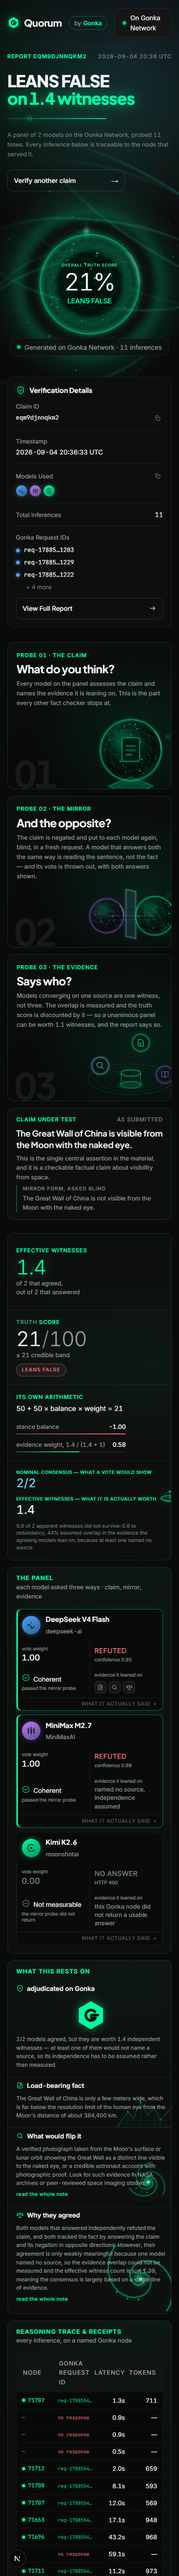
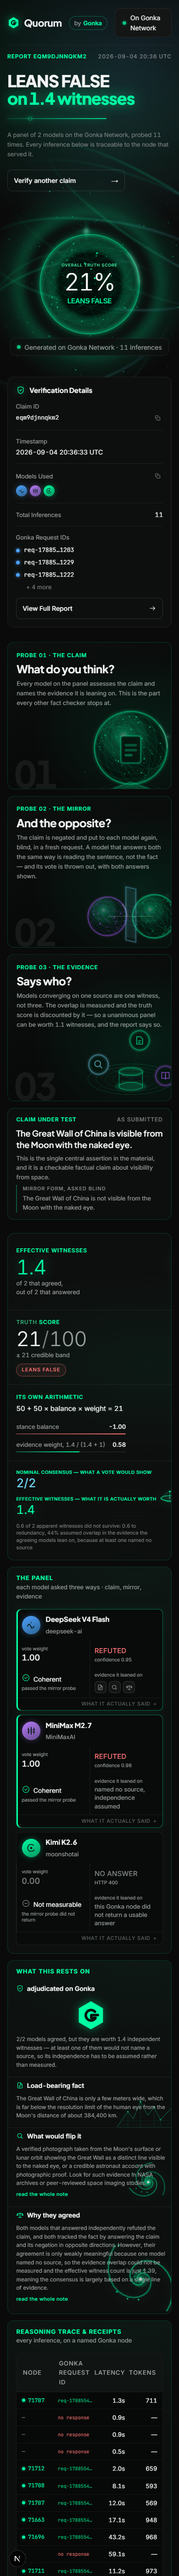
fix(design): the effective witness count was rendering white, not green
A design critic sampling pixels rather than reading the stylesheet found that
this project's central claim was not on screen. In the metrics strip's fourth
cell — the one built to put the nominal consensus and the effective witness
count side by side — 2/2 rendered blue and 1.4 rendered plain near-white, so the
comparison read as "one number is flagged" instead of as two colours carrying a
distinction.

The cause was rule order. .metricValueSodium sat at line 843 and .metricSmall at
881; same specificity, later rule wins, so .metricSmall's own colour took it.
.metricSmallSteel happens to sit after .metricSmall, which is why the blue one
looked correct and hid the bug. There is now a .metricSmallSodium modifier
declared after the base rule, and a comment on both saying why the order is
load-bearing.

Verified by sampling the rendered PNG: 2/2 is rgb(114,220,255), 1.4 is
rgb(0,255,163). VISUAL_QA.md previously asserted the opposite and has been
corrected — a colour claim about a CSS-modules class is not evidence.

The same review found the probe spheres were still only ~43% of their card
against the reference's ~68%, and were reusing the hero orb's deliberately dark
interior at a smaller size. They now carry a hot core falling off to the shell:
the hero orb is dark glass because it is a body being measured, and a probe
sphere is the probe firing, so they should not look alike. Radii and the
document glyph and pedestal grew to match, and the scene box was re-anchored
[…]

diff --git a/components/Scenes.tsx b/components/Scenes.tsx
@@ -22,10 +22,17 @@ function Defs({ id }: { id: string }) {
         <stop offset="62%" stopColor={GREEN} stopOpacity="0.08" />
         <stop offset="100%" stopColor="#000" stopOpacity="0.4" />
       </radialGradient>
-      <radialGradient id={`${id}-body`} cx="38%" cy="34%">
-        <stop offset="0%" stopColor={GREEN} stopOpacity="0.2" />
-        <stop offset="45%" stopColor="#00251a" stopOpacity="0.62" />
-        <stop offset="100%" stopColor="#000" stopOpacity="0.72" />
+      {/* A LIT interior, deliberately unlike the hero orb's.
+          The hero orb is dark glass with a bright rim because it is a body being
+          measured. A probe-card sphere is the probe itself firing, so it carries
+          a hot core falling off to the shell — reusing the hero's dark treatment
+          here just made a small, dim copy of the hero. */}
+      <radialGradient id={`${id}-body`} cx="40%" cy="34%">
+        <stop offset="0%" stopColor="#eafff6" stopOpacity="0.55" />
+        <stop offset="14%" stopColor={GREEN} stopOpacity="0.42" />
+        <stop offset="38%" stopColor={GREEN} stopOpacity="0.2" />
+        <stop offset="68%" stopColor="#00301f" stopOpacity="0.52" />
+        <stop offset="100%" stopColor="#00120b" stopOpacity="0.66" />
       </radialGradient>
       <filter id={`${id}-glow`} x="-60%" y="-60%" width="220%" height="220%">
         <feGaussianBlur stdDeviation="3" />
@@ -64,9 +71,9 @@ function surfaceLights(seed: number, count: number, radius: number) {
   });
 }
 
-const CLAIM_LIGHTS = surfaceLights(9101, 54, 104);
-const MIRROR_LIGHTS_A = surfaceLights(3311, 24, 56);
-const MIRROR_LIGHTS_B = surfaceLights(7717, 28, 64);
+const CLAIM_LIGHTS = surfaceLights(9101, 62, 124);
+const MIRROR_LIGHTS_A = surfaceLights(3311, 28, 68);
+const MIRROR_LIGHTS_B = surfaceLights(7717, 32, 78);
 
 /**
  * The volumetric sphere the reference's probe cards are built around.
@@ -217,23 +224,23 @@ export function ClaimScene() {
     <svg viewBox="-150 -150 300 300" className={s.scene} aria-hidden="true" focusable="false">
       <Defs id={id} />
       <Rings id={id} />
-      <g transform="translate(0 -6)">
-        <Sphere id={id} r={104} hue={GREEN} lights={CLAIM_LIGHTS} meridians={11} />
+      <g transform="translate(0 -14)">
+        <Sphere id={id} r={124} hue={GREEN} lights={CLAIM_LIGHTS} meridians={12} />
       </g>
 
       {/* the document being read, held inside the sphere */}
       <g transform="translate(0 -8)">
-        <rect x="-30" y="-40" width="60" height="80" rx="7" fill="#04150e" stroke={GREEN} strokeWidth="1.6" />
-        <rect x="-30" y="-40" width="60" height="80" rx="7" fill="none" stroke={GREEN} strokeWidth="6" opacity="0.24" filter={`url(#${id}-glow)`} />
+        <rect x="-34" y="-46" width="68" height="92" rx="8" fill="#04150e" stroke={GREEN} strokeWidth="1.6" />
+        <rect x="-34" y="-46" width="68" height="92" rx="8" fill="none" stroke={GREEN} strokeWidth="6" opacity="0.24" filter={`url(#${id}-glow)`} />
         <g fill={GREEN} className={s.readLines}>
-          <rect x="-18" y="-16" width="36" height="7.5" rx="3.75" />
-          <rect x="-18" y="-1" width="36" height="7.5" rx="3.75" opacity="0.8" />
-          <rect x="-18" y="14" width="23" height="7.5" rx="3.75" opacity="0.6" />
+          <rect x="-21" y="-19" width="42" height="8.5" rx="4.25" />
+          <rect x="-21" y="-2" width="42" height="8.5" rx="4.25" opacity="0.8" />
+          <rect x="-21" y="15" width="27" height="8.5" rx="4.25" opacity="0.6" />
         </g>
-        <path d="M-20 -38 L20 -38" stroke="#eafff6" strokeWidth="2.4" opacity="0.95" filter={`url(#${id}-soft)`} />
+        <path d="M-23 -44 L23 -44" stroke="#eafff6" strokeWidth="2.6" opacity="0.95" filter={`url(#${id}-soft)`} />
       </g>
 
-      <Pedestal id={id} y={116} />
+      <Pedestal id={id} y={132} />
     </svg>
   );
 }
@@ -249,30 +256,30 @@ export function MirrorScene() {
       </g>
 
       {/* the negated side */}
-      <g transform="translate(-82 18)">
-        <Sphere id={id} r={58} hue={VIOLET} lights={MIRROR_LIGHTS_A} meridians={8} />
+      <g transform="translate(-80 20)">
+        <Sphere id={id} r={66} hue={VIOLET} lights={MIRROR_LIGHTS_A} meridians={9} />
       </g>
 
       {/* the claim side */}
-      <g transform="translate(82 18)">
-        <Sphere id={id} r={66} hue={GREEN} lights={MIRROR_LIGHTS_B} meridians={9} />
+      <g transform="translate(80 20)">
+        <Sphere id={id} r={74} hue={GREEN} lights={MIRROR_LIGHTS_B} meridians={10} />
       </g>
 
       {/* the pane the probe is fired through */}
-      <g transform="translate(0 14)">
-        <path d="M-17 -86 L17 -78 L17 82 L-17 74Z" fill={BLUE} opacity="0.13" />
-        <path d="M-17 -86 L17 -78 L17 82 L-17 74Z" fill="none" stroke={BLUE} strokeWidth="1.3" opacity="0.9" />
-        <path d="M-17 -86 L17 -78 L17 82 L-17 74Z" fill="none" stroke={BLUE} strokeWidth="7" opacity="0.2" filter={`url(#${id}-glow)`} />
-        <path d="M-17 -30 L17 -22 M-17 26 L17 34" stroke={BLUE} strokeWidth="0.7" opacity="0.35" />
+      <g transform="translate(0 16)">
+        <path d="M-17 -96 L17 -78 L17 82 L-17 74Z" fill={BLUE} opacity="0.13" />
+        <path d="M-17 -96 L17 -88 L17 92 L-17 84Z" fill="none" stroke={BLUE} strokeWidth="1.3" opacity="0.9" />
+        <path d="M-17 -96 L17 -88 L17 92 L-17 84Z" fill="none" stroke={BLUE} strokeWidth="7" opacity="0.2" filter={`url(#${id}-glow)`} />
+        <path d="M-17 -34 L17 -26 M-17 30 L17 38" stroke={BLUE} strokeWidth="0.7" opacity="0.35" />
       </g>
 
       {/* the beam, fired both ways — a lit shaft, not a hairline */}
       <g className={s.beamPulse}>
-        <path d="M-82 18 L82 18" stroke={GREEN} strokeWidth="9" opacity="0.22" filter={`url(#${id}-glow)`} />
-        <path d="M-82 18 L82 18" stroke={GREEN} strokeWidth="3" opacity="0.75" filter={`url(#${id}-soft)`} />
-        <path d="M-82 18 L82 18" stroke="#eafff6" strokeWidth="1.1" opacity="0.95" />
-        <path d="M-82 2 L82 8" stroke={VIOLET} strokeWidth="1.4" opacity="0.55" filter={`url(#${id}-soft)`} />
-        <path d="M-82 34 L82 30" stroke={BLUE} strokeWidth="1.4" opacity="0.5" filter={`url(#${id}-soft)`} />
+        <path d="M-80 20 L80 20" stroke={GREEN} strokeWidth="10" opacity="0.22" filter={`url(#${id}-glow)`} />
+        <path d="M-80 20 L80 20" stroke={GREEN} strokeWidth="3.4" opacity="0.75" filter={`url(#${id}-soft)`} />
+        <path d="M-80 20 L80 20" stroke="#eafff6" strokeWidth="1.3" opacity="0.95" />
+        <path d="M-80 2 L80 8" stroke={VIOLET} strokeWidth="1.4" opacity="0.55" filter={`url(#${id}-soft)`} />
+        <path d="M-80 38 L80 34" stroke={BLUE} strokeWidth="1.4" opacity="0.5" filter={`url(#${id}-soft)`} />
       </g>
     </svg>
   );
@@ -282,9 +289,9 @@ export function MirrorScene() {
 export function EvidenceScene() {
   const id = "sc3";
   const nodes: Array<{ x: number; y: number; hue: string; glyph: "search" | "doc" | "book" }> = [
-    { x: -104, y: 6, hue: BLUE, glyph: "search" },
-    { x: 34, y: -68, hue: GREEN, glyph: "doc" },
-    { x: 116, y: 40, hue: VIOLET, glyph: "book" },
+    { x: -110, y: 2, hue: BLUE, glyph: "search" },
+    { x: 30, y: -76, hue: GREEN, glyph: "doc" },
+    { x: 118, y: 44, hue: VIOLET, glyph: "book" },
   ];
 
   return (
@@ -294,14 +301,15 @@ export function EvidenceScene() {
       {/* the shared store they all converge on */}
       <g transform="translate(0 52)">
         <g fill="none" stroke={GREEN}>
-          <ellipse ry="11" rx="33" cy="-21" strokeWidth="1.3" opacity="0.95" />
-          <path d="M-33 -21 L-33 19 M33 -21 L33 19" strokeWidth="1.3" opacity="0.95" />
-          <ellipse ry="11" rx="33" cy="19" strokeWidth="1.3" opacity="0.95" />
-          <ellipse ry="11" rx="33" cy="-3" strokeWidth="0.9" opacity="0.45" />
-          <ellipse ry="11" rx="33" cy="-21" strokeWidth="6" opacity="0.28" filter={`url(#${id}-glow)`} />
-          <path d="M-33 -21 L33 19 M33 -21 L-33 19" strokeWidth="0.6" opacity="0.18" />
+          <ellipse ry="13" rx="40" cy="-26" strokeWidth="1.4" opacity="0.95" />
+          <ellipse ry="13" rx="40" cy="-26" fill={GREEN} stroke="none" opacity="0.12" />
+          <path d="M-40 -26 L-40 24 M40 -26 L40 24" strokeWidth="1.4" opacity="0.95" />
+          <ellipse ry="13" rx="40" cy="24" strokeWidth="1.4" opacity="0.95" />
+          <ellipse ry="13" rx="40" cy="-3" strokeWidth="0.9" opacity="0.45" />
+          <ellipse ry="13" rx="40" cy="-26" strokeWidth="7" opacity="0.3" filter={`url(#${id}-glow)`} />
+          <path d="M-40 -26 L40 24 M40 -26 L-40 24" strokeWidth="0.6" opacity="0.16" />
         </g>
-        <ellipse rx="44" ry="14" cy="19" fill={GREEN} opacity="0.2" filter={`url(#${id}-glow)`} />
+        <ellipse rx="54" ry="17" cy="24" fill={GREEN} opacity="0.24" filter={`url(#${id}-glow)`} />
       </g>
 
       {/* the orbit plane the sources sit on */}
@@ -330,9 +338,9 @@ export function EvidenceScene() {
               collapse onto the origin. */}
           <g transform={`translate(${n.x} ${n.y})`}>
             <g className={s.bob} style={{ animationDelay: `${-2.3 * i}s` }}>
-            <circle r="29" fill="#04150e" stroke={n.hue} strokeWidth="1.4" />
-            <circle r="29" fill="none" stroke={n.hue} strokeWidth="7" opacity="0.32" filter={`url(#${id}-glow)`} />
-            <g stroke={n.hue} strokeWidth="1.8" fill="none" strokeLinecap="round" strokeLinejoin="round" transform="scale(1.25)">
+            <circle r="33" fill="#04150e" stroke={n.hue} strokeWidth="1.5" />
+            <circle r="33" fill="none" stroke={n.hue} strokeWidth="8" opacity="0.34" filter={`url(#${id}-glow)`} />
+            <g stroke={n.hue} strokeWidth="1.8" fill="none" strokeLinecap="round" strokeLinejoin="round" transform="scale(1.42)">
               {n.glyph === "search" ? (
                 <>
                   <circle cx="-2" cy="-2" r="7" />

diff --git a/components/quorum.module.css b/components/quorum.module.css
@@ -724,7 +724,7 @@
 .step {
   position: relative;
   overflow: hidden;
-  min-height: 23rem;
+  min-height: 24rem;
   padding: 1.15rem 1.2rem 1.2rem;
   border: 1px solid var(--outline-green);
   border-radius: var(--radius);
@@ -781,10 +781,10 @@
    its width and sitting under the copy rather than beside it. */
 .stepScene {
   position: absolute;
-  right: -1.5rem;
-  bottom: 0.15rem;
-  width: 23rem;
-  height: 19.5rem;
+  right: -0.4rem;
+  bottom: -0.1rem;
+  width: 24rem;
+  height: 21.5rem;
   pointer-events: none;
 }
 
@@ -886,8 +886,19 @@
   line-height: 1.25;
 }
 
+/* The two argument colours, as modifiers on .metricSmall. They have to be
+   declared AFTER it: same specificity, so the later rule wins, and putting one
+   before it silently loses to .metricSmall's own colour. That is exactly what
+   happened — the effective witness count rendered plain white beside a blue
+   nominal consensus, which reads as "one number is flagged" rather than as two
+   colours carrying a distinction. */
 .metricSmallSteel {
   color: var(--steel);
+}
+
+.metricSmallSodium {
+  color: var(--sodium);
+  text-shadow: 0 0 22px rgba(0, 255, 163, 0.35);
 }
 
 .metricStack {

diff --git a/components/Report.tsx b/components/Report.tsx
@@ -260,7 +260,7 @@ function MetricsStrip({ run }: { run: VerificationRun }) {
           </span>
           <span className={s.metricReading}>
             <span className="eyebrow">Effective witnesses — what it is actually worth</span>
-            <span className={`${s.metricSmall} ${s.metricValueSodium}`}>
+            <span className={`${s.metricSmall} ${s.metricSmallSodium}`}>
               {survived.toFixed(1)}
             </span>
           </span>

diff --git a/VISUAL_QA.md b/VISUAL_QA.md
@@ -295,6 +295,35 @@ The critic also read the hero's orbit trails as "generic sci-fi beams" and the o
 The haze was already fixed in the commit after its screenshot was taken (the bloom ring was landing
 inside the sphere); the trails are the reference's own sweeping orbit arcs and are kept.
 
+### design-critic re-review — and a claim in this file that was false
+
+The re-review cleared the balance, the spirals, the model marks and the orb haze, and blocked on two
+things. Both were right.
+
+**The colour deviation recorded above was not what actually rendered.** This file asserted that the
+effective witness count carries brand green "in both the strip and everywhere else those two figures
+appear". It did not. `.metricValueSodium` was declared at line 843 and `.metricSmall` at line 881 —
+same specificity, so the later rule won and the metrics strip's `1.4` rendered in `--paper`
+near-white while `2/2` beside it rendered blue, because `.metricSmallSteel` happens to be declared
+*after* `.metricSmall`. So the one cell built to put the nominal and effective readings side by side
+showed "one number flagged, one not" — the opposite of the distinction the whole product is for.
+Fixed with a `.metricSmallSodium` modifier declared after the base rule, and the rule now carries a
+comment saying why the order matters. **Verified by sampling the rendered PNG**, not the stylesheet:
+`2/2` = rgb(114,220,255) = `--steel`, `1.4` = rgb(0,255,163) = `--sodium`. `tools/`-side helper for
+this lives in the scratchpad; the crop is `v23-cell4.png`.
+
+The lesson worth keeping: a colour claim about a CSS-modules class is not evidence. Two rules of
+equal specificity in the wrong order fail silently and look deliberate.
+
+**S2 second pass.** The spheres were still ~43% of the card where the reference's are ~68%, and they
+reused the hero orb's deliberately *dark* interior at a smaller size, so they read as line-art globes
+rather than as the brightest thing in the card. The body gradient now carries a hot core falling off
+to the shell — the hero orb is dark glass because it is a body being measured; a probe sphere is the
+probe firing, and they should not look the same. Radii went 104→124 (card 1) and 58/66→66/74
+(card 2), the document glyph and pedestal grew with them, and the scene box was re-anchored after
+card 2's right sphere started overrunning the card edge. Card 3's store and source chips grew to
+match. Re-checked at 390px: the stacked layout still puts the copy above the illustration.
+
 ## Definition of Done — status
 
 - [x] Every section in the locked section map has been implemented, screenshot-compared at 1536px,
